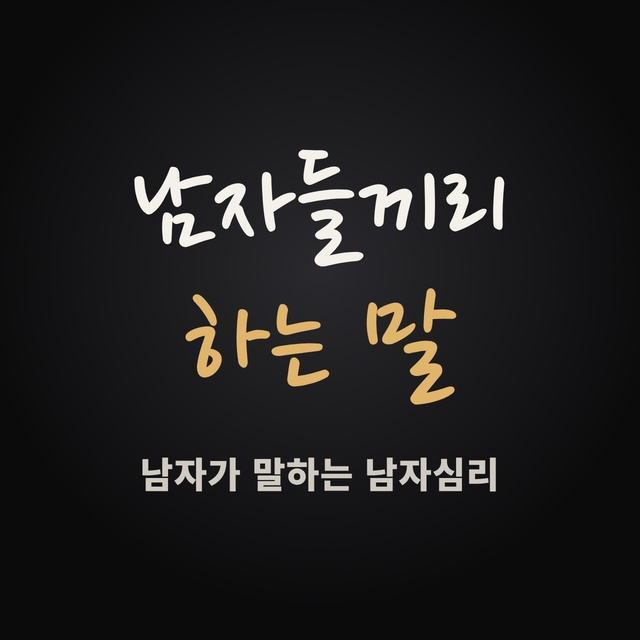
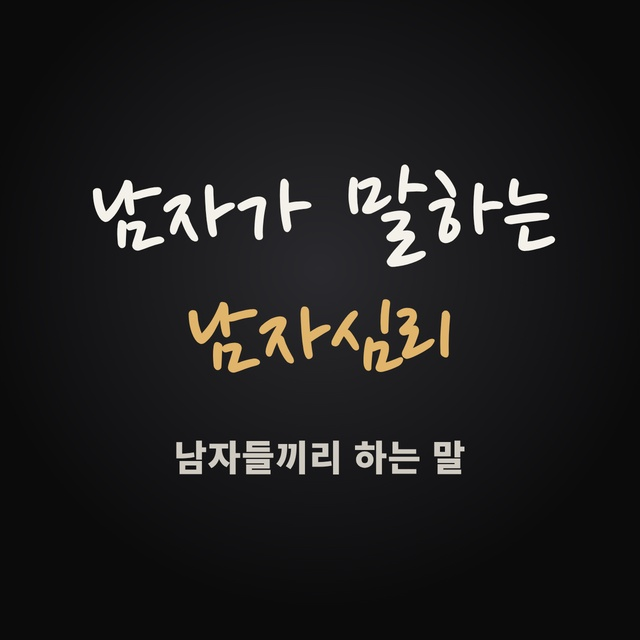
카카오채널 프로필: '남자가 말하는 남자심리'를 메인으로
Claude-Session: https://claude.ai/code/session_01J9i5yL8MFhQ5W67Sx3nDW6

Changed region(s): [[0.125, 0.2188, 0.875, 0.4375], [0.2812, 0.4375, 0.7188, 0.6562], [0.2188, 0.6875, 0.7812, 0.7812]]

diff --git a/carousel/kakao/kakao.html b/carousel/kakao/kakao.html
@@ -5,13 +5,13 @@
 .pen{font-family:'Nanum Pen Script';-webkit-text-stroke:1.2px currentColor;paint-order:stroke fill;line-height:1.05}
 .a{color:#e0b46a}
 #prof{width:640px;height:640px;background:radial-gradient(circle at 50% 42%,#2a2a2e 0%,#0b0b0c 70%);display:flex;flex-direction:column;align-items:center;justify-content:center;text-align:center;margin-bottom:20px}
-#prof .pen{font-size:132px}
+#prof .pen{font-size:116px}
 #prof .s{margin-top:26px;font-size:36px;font-weight:900;color:#cfcac1;letter-spacing:.02em}
 #bg{width:800px;height:500px;background:radial-gradient(ellipse at 50% 50%,#26262a 0%,#0b0b0c 75%);display:flex;flex-direction:column;align-items:center;justify-content:center;text-align:center}
 #bg .k{font-size:22px;font-weight:700;color:#8e8a83;letter-spacing:.14em}
 #bg .t{font-size:52px;font-weight:900;letter-spacing:-0.03em;line-height:1.25;margin-top:14px}
 #bg .pen{font-size:46px;margin-top:18px;color:#d6d1c8}
 </style></head><body>
-<div id="prof"><div class="pen">남자들끼리<br><span class="a">하는 말</span></div><div class="s">남자가 말하는 남자심리</div></div>
-<div id="bg"><div class="k">남자가 말하는 남자심리 · 1:1 상담</div><div class="t">그 남자 속마음,<br><span class="a">남자가 직접 번역해 드려요</span></div><div class="pen">관상 · 카톡 · 상황까지 보고, 보낼 말까지</div></div>
+<div id="prof"><div class="pen">남자가 말하는<br><span class="a">남자심리</span></div><div class="s">남자들끼리 하는 말</div></div>
+<div id="bg"><div class="k">남자들끼리 하는 말 · 1:1 상담</div><div class="t">그 남자 속마음,<br><span class="a">남자가 직접 번역해 드려요</span></div><div class="pen">관상 · 카톡 · 상황까지 보고, 보낼 말까지</div></div>
 </body></html>
